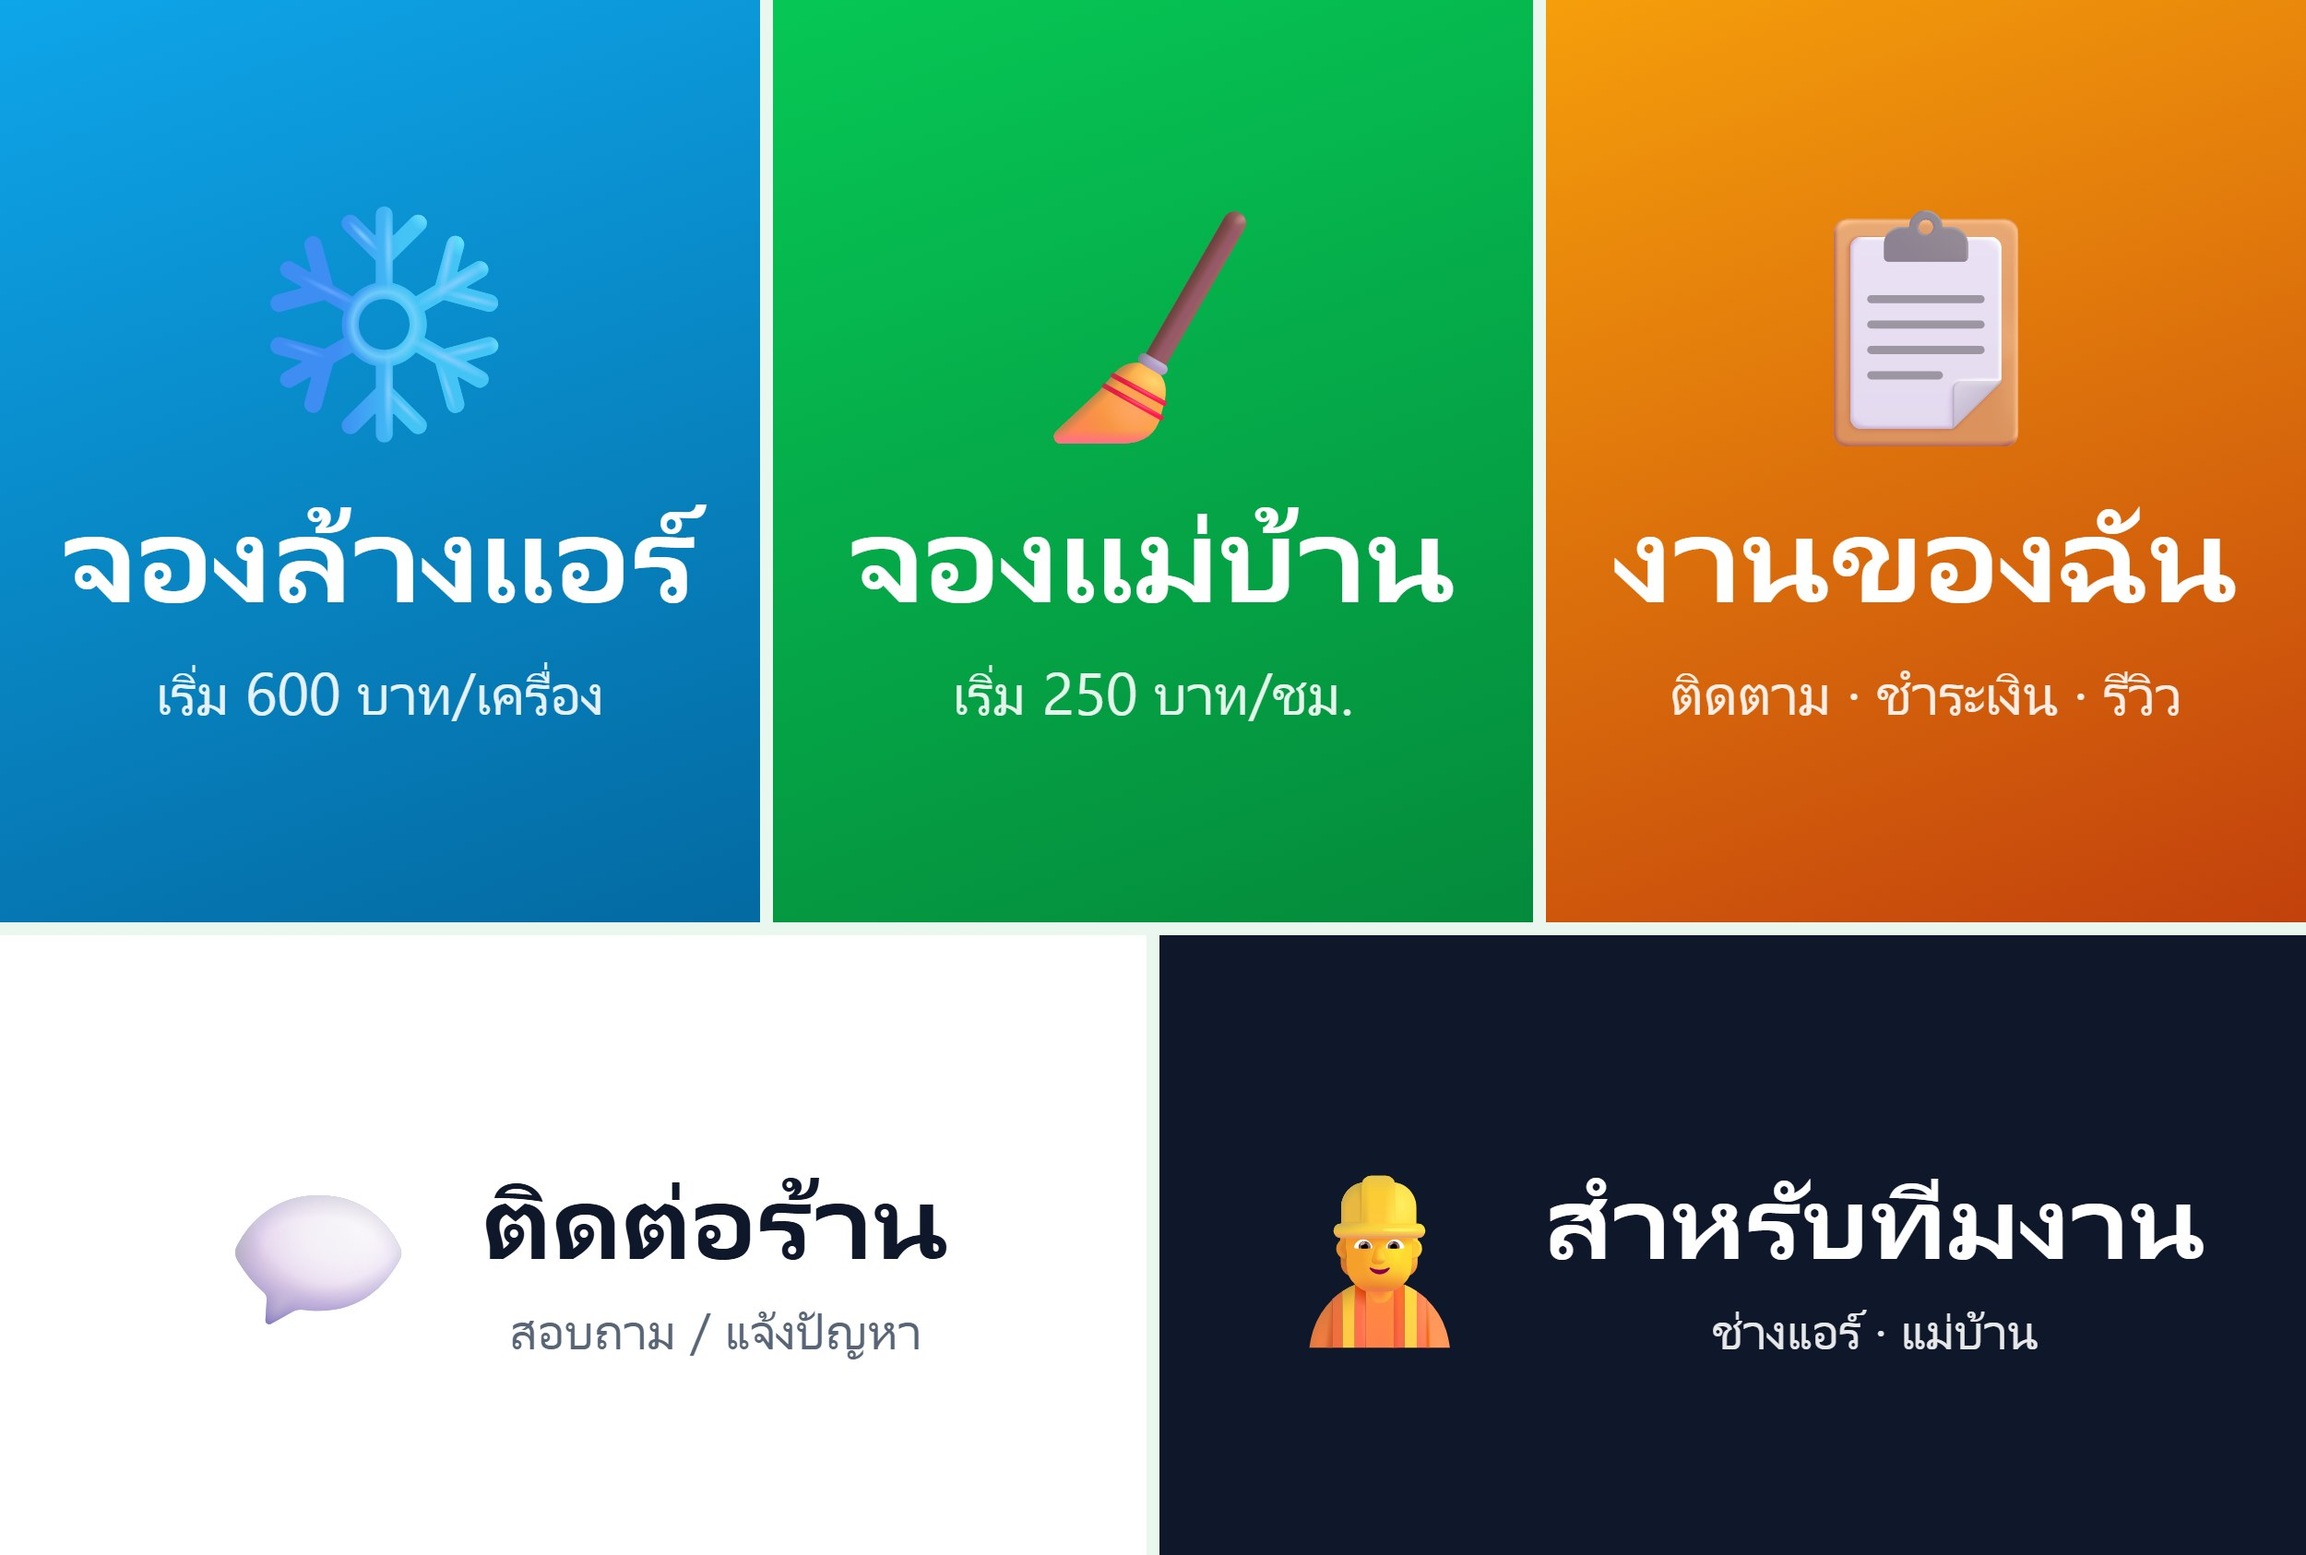
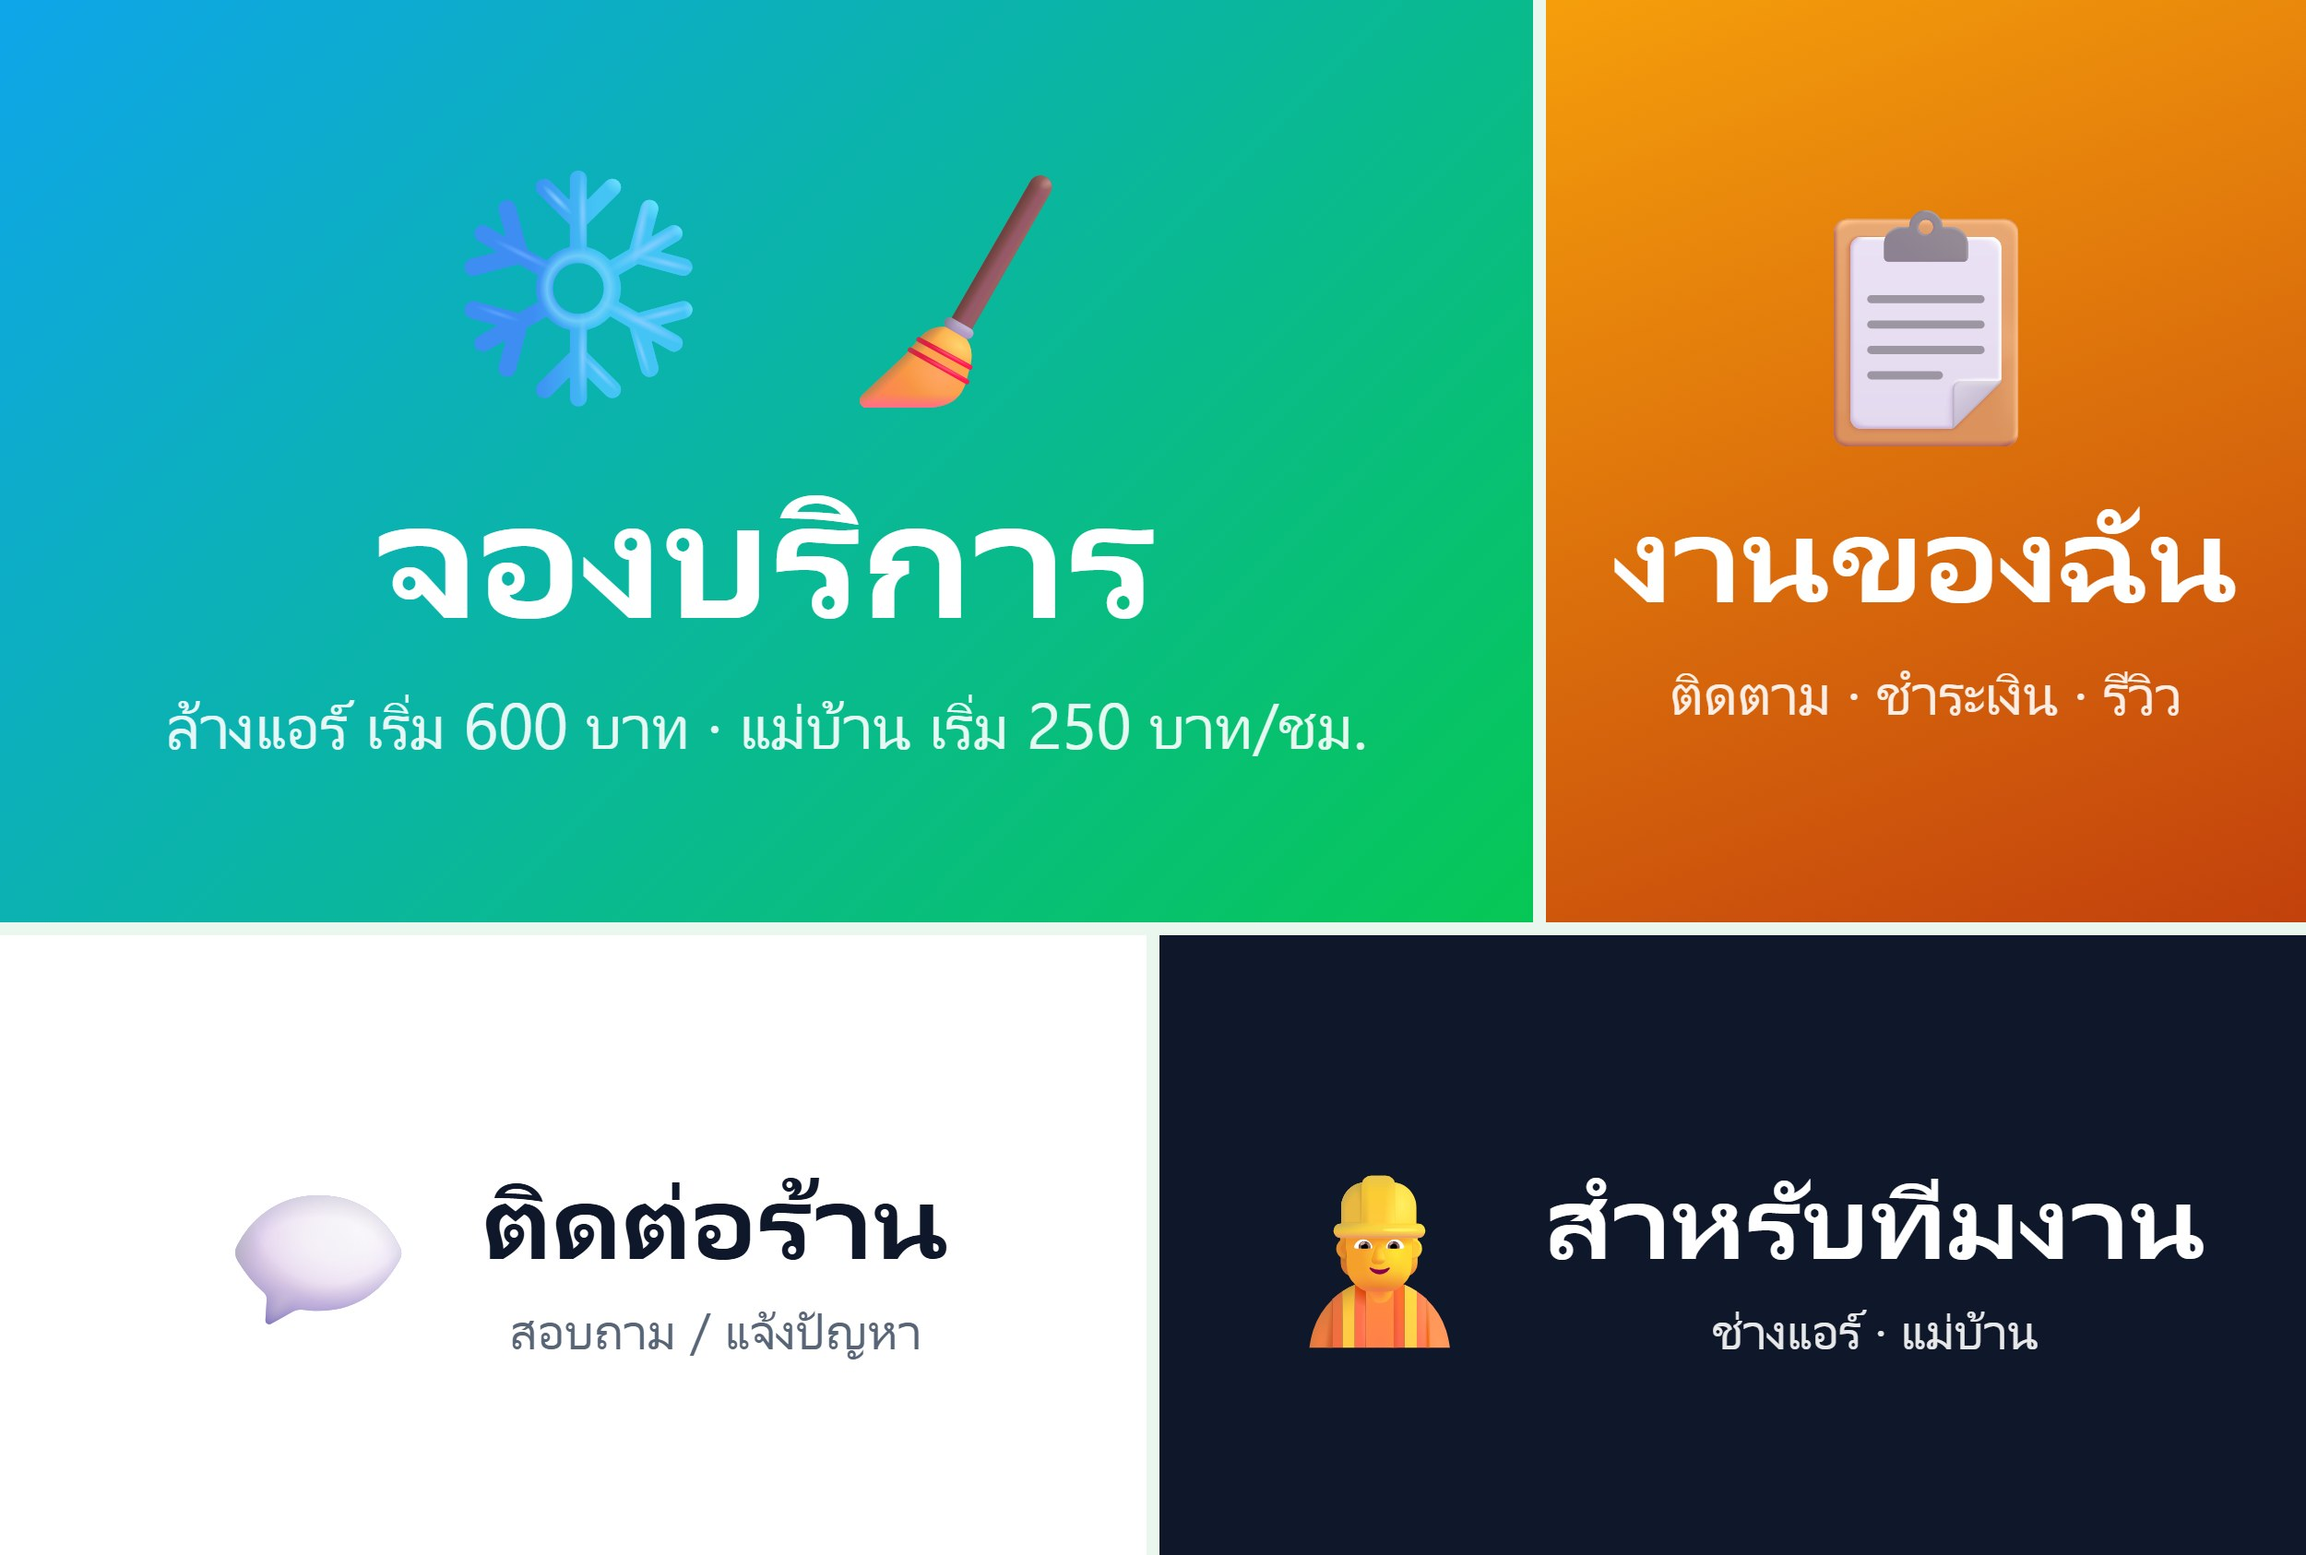
Rich menu: single booking button
The booking page already switches between aircon and cleaning, so the
two booking buttons are merged into one.

diff --git a/scripts/richmenu/menu.html b/scripts/richmenu/menu.html
@@ -21,8 +21,10 @@
   }
   .big { grid-column: span 2; }
   .wide { grid-column: span 3; flex-direction: row; gap: 48px; }
-  .ac { background: linear-gradient(160deg, #0ea5e9, #0369a1); }
-  .cl { background: linear-gradient(160deg, #06c755, #048a3b); }
+  .book { grid-column: span 4; background: linear-gradient(135deg, #0ea5e9 0%, #06c755 100%); }
+  .book .title { font-size: 190px; }
+  .book .sub { font-size: 70px; }
+  .icons { display: flex; gap: 60px; }
   .jobs { background: linear-gradient(160deg, #f59e0b, #c2410c); }
   .chat { background: #ffffff; color: #0f172a; }
   .team { background: #0f172a; }
@@ -36,8 +38,11 @@
 </style>
 </head>
 <body>
-  <div class="cell big ac"><div class="icon">❄</div><div class="title">จองล้างแอร์</div><div class="sub">เริ่ม 600 บาท/เครื่อง</div></div>
-  <div class="cell big cl"><div class="icon">🧹</div><div class="title">จองแม่บ้าน</div><div class="sub">เริ่ม 250 บาท/ชม.</div></div>
+  <div class="cell book">
+    <div class="icons"><span class="icon">❄</span><span class="icon">🧹</span></div>
+    <div class="title">จองบริการ</div>
+    <div class="sub">ล้างแอร์ เริ่ม 600 บาท · แม่บ้าน เริ่ม 250 บาท/ชม.</div>
+  </div>
   <div class="cell big jobs"><div class="icon">📋</div><div class="title">งานของฉัน</div><div class="sub">ติดตาม · ชำระเงิน · รีวิว</div></div>
   <div class="cell wide chat"><div class="icon">💬</div><div><div class="title">ติดต่อร้าน</div><div class="sub">สอบถาม / แจ้งปัญหา</div></div></div>
   <div class="cell wide team"><div class="icon">👷</div><div><div class="title">สำหรับทีมงาน</div><div class="sub">ช่างแอร์ · แม่บ้าน</div></div></div>
